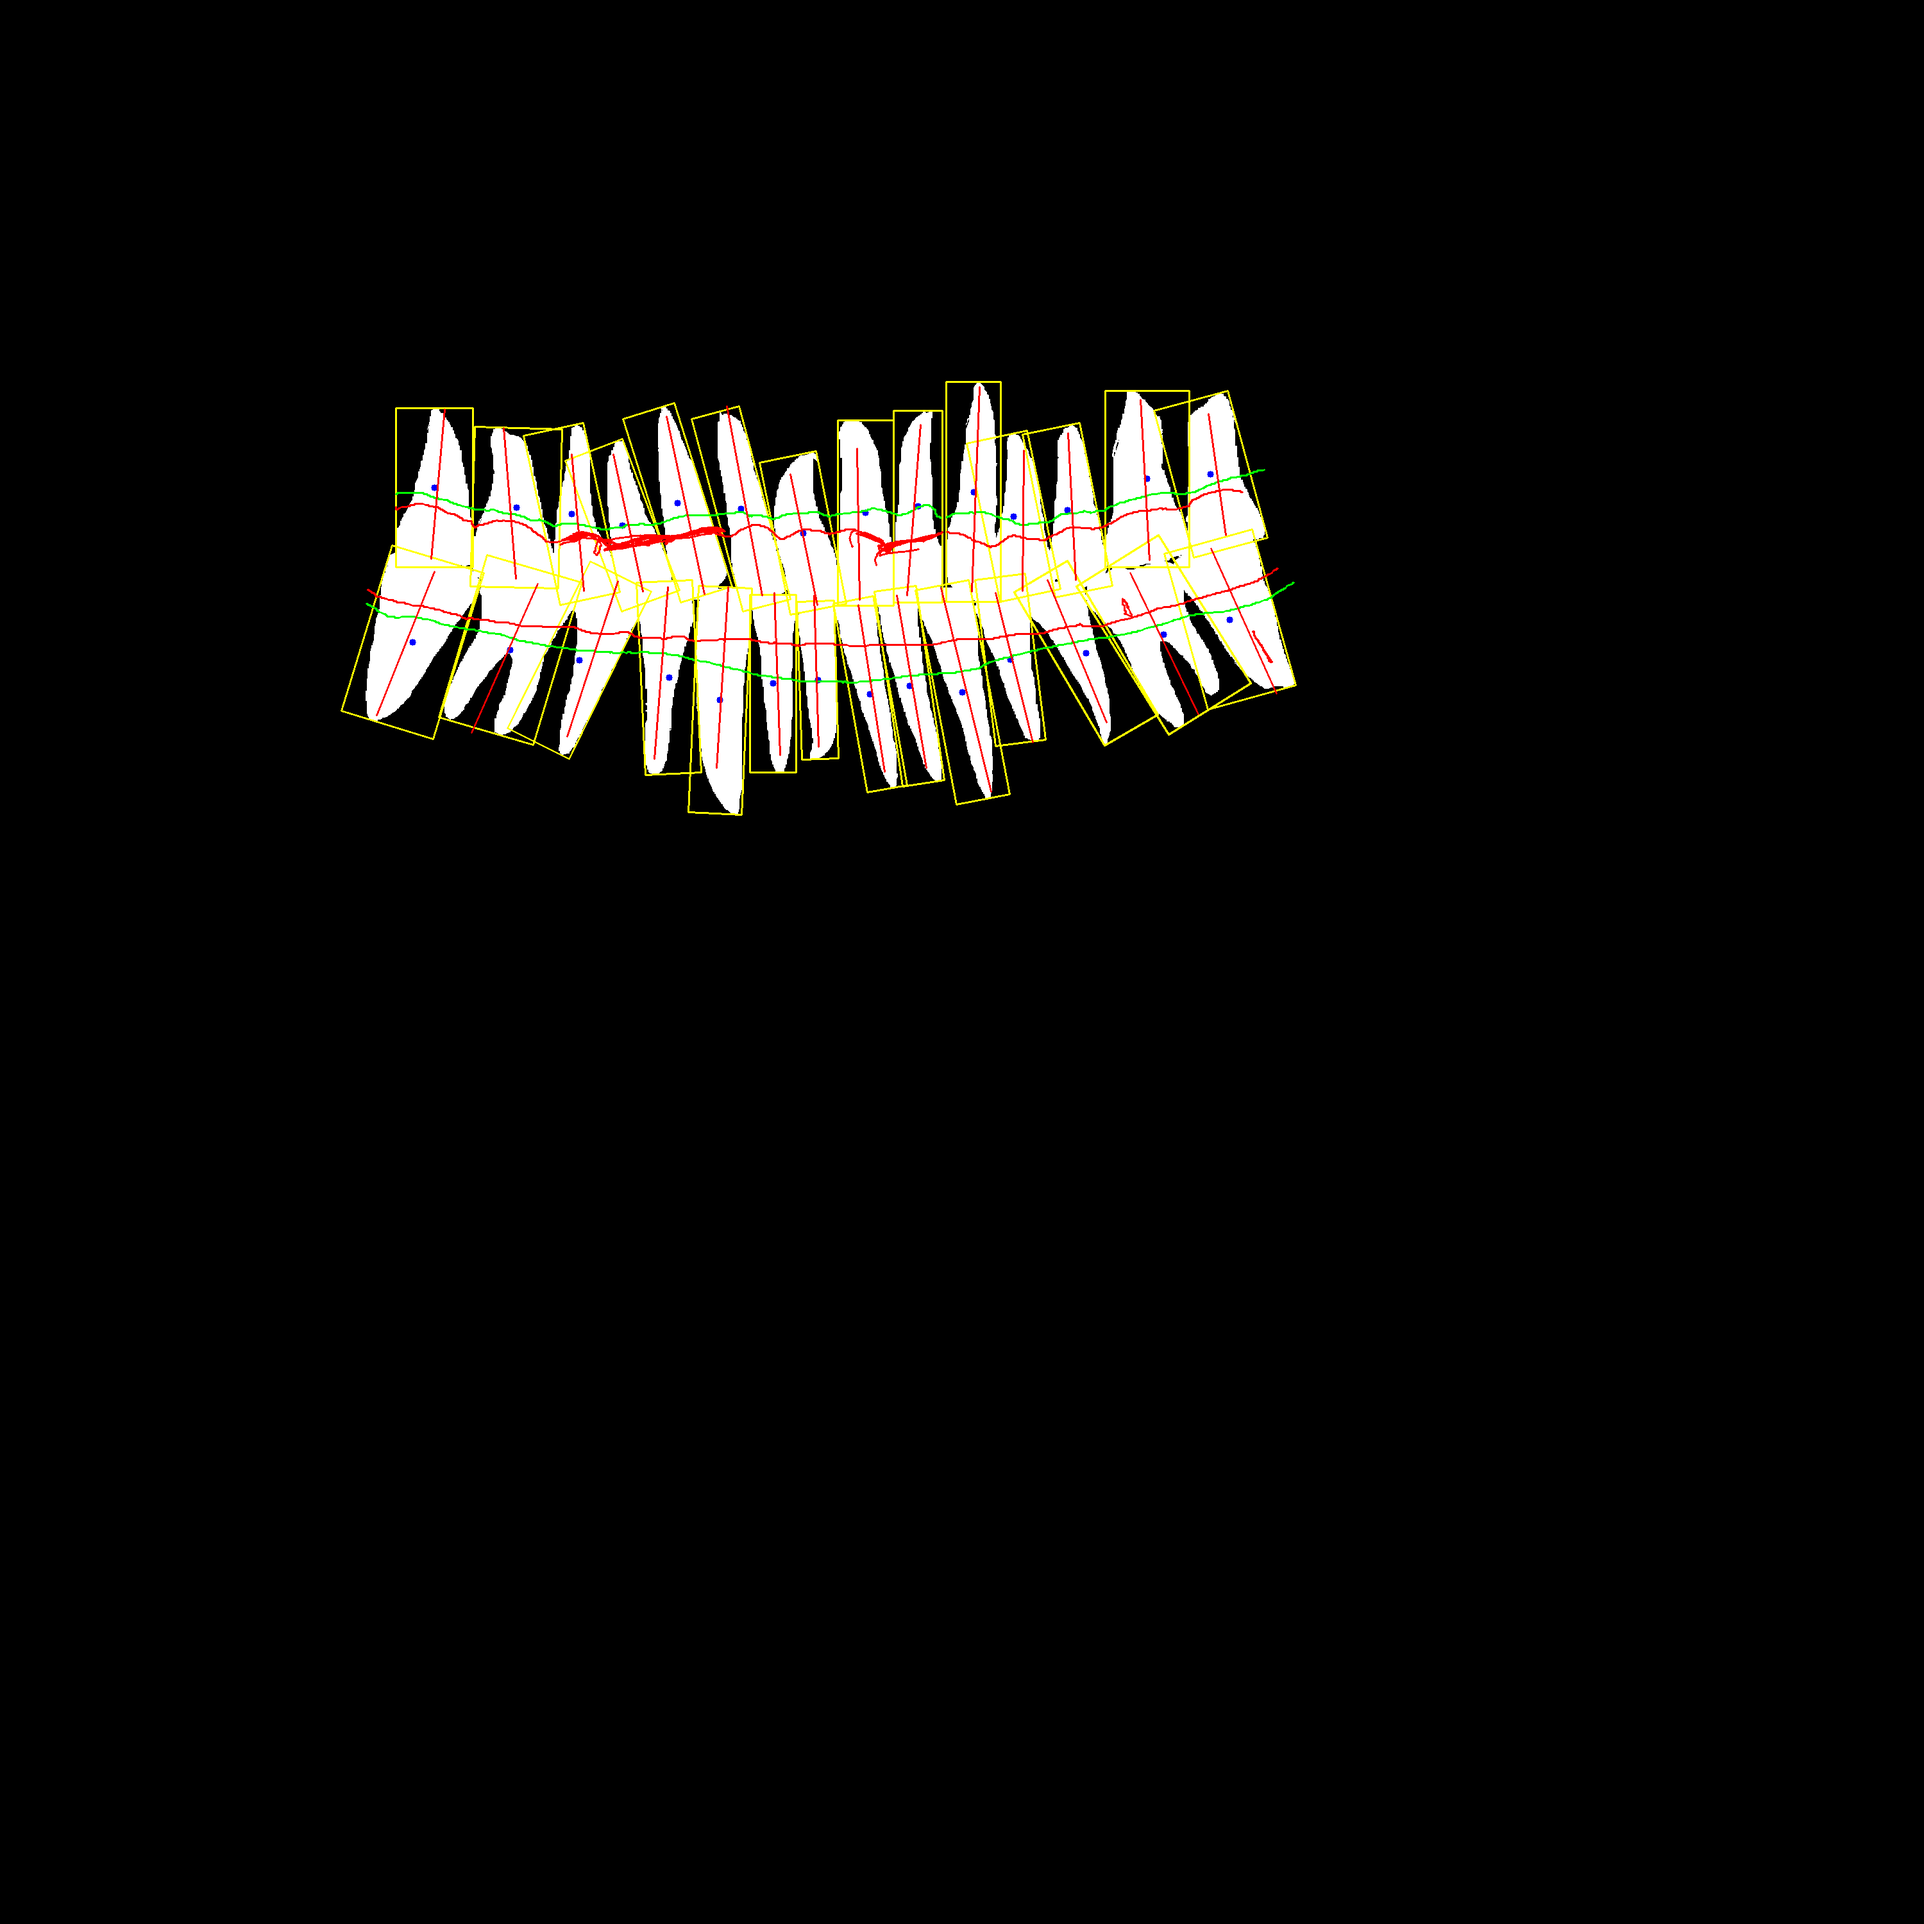
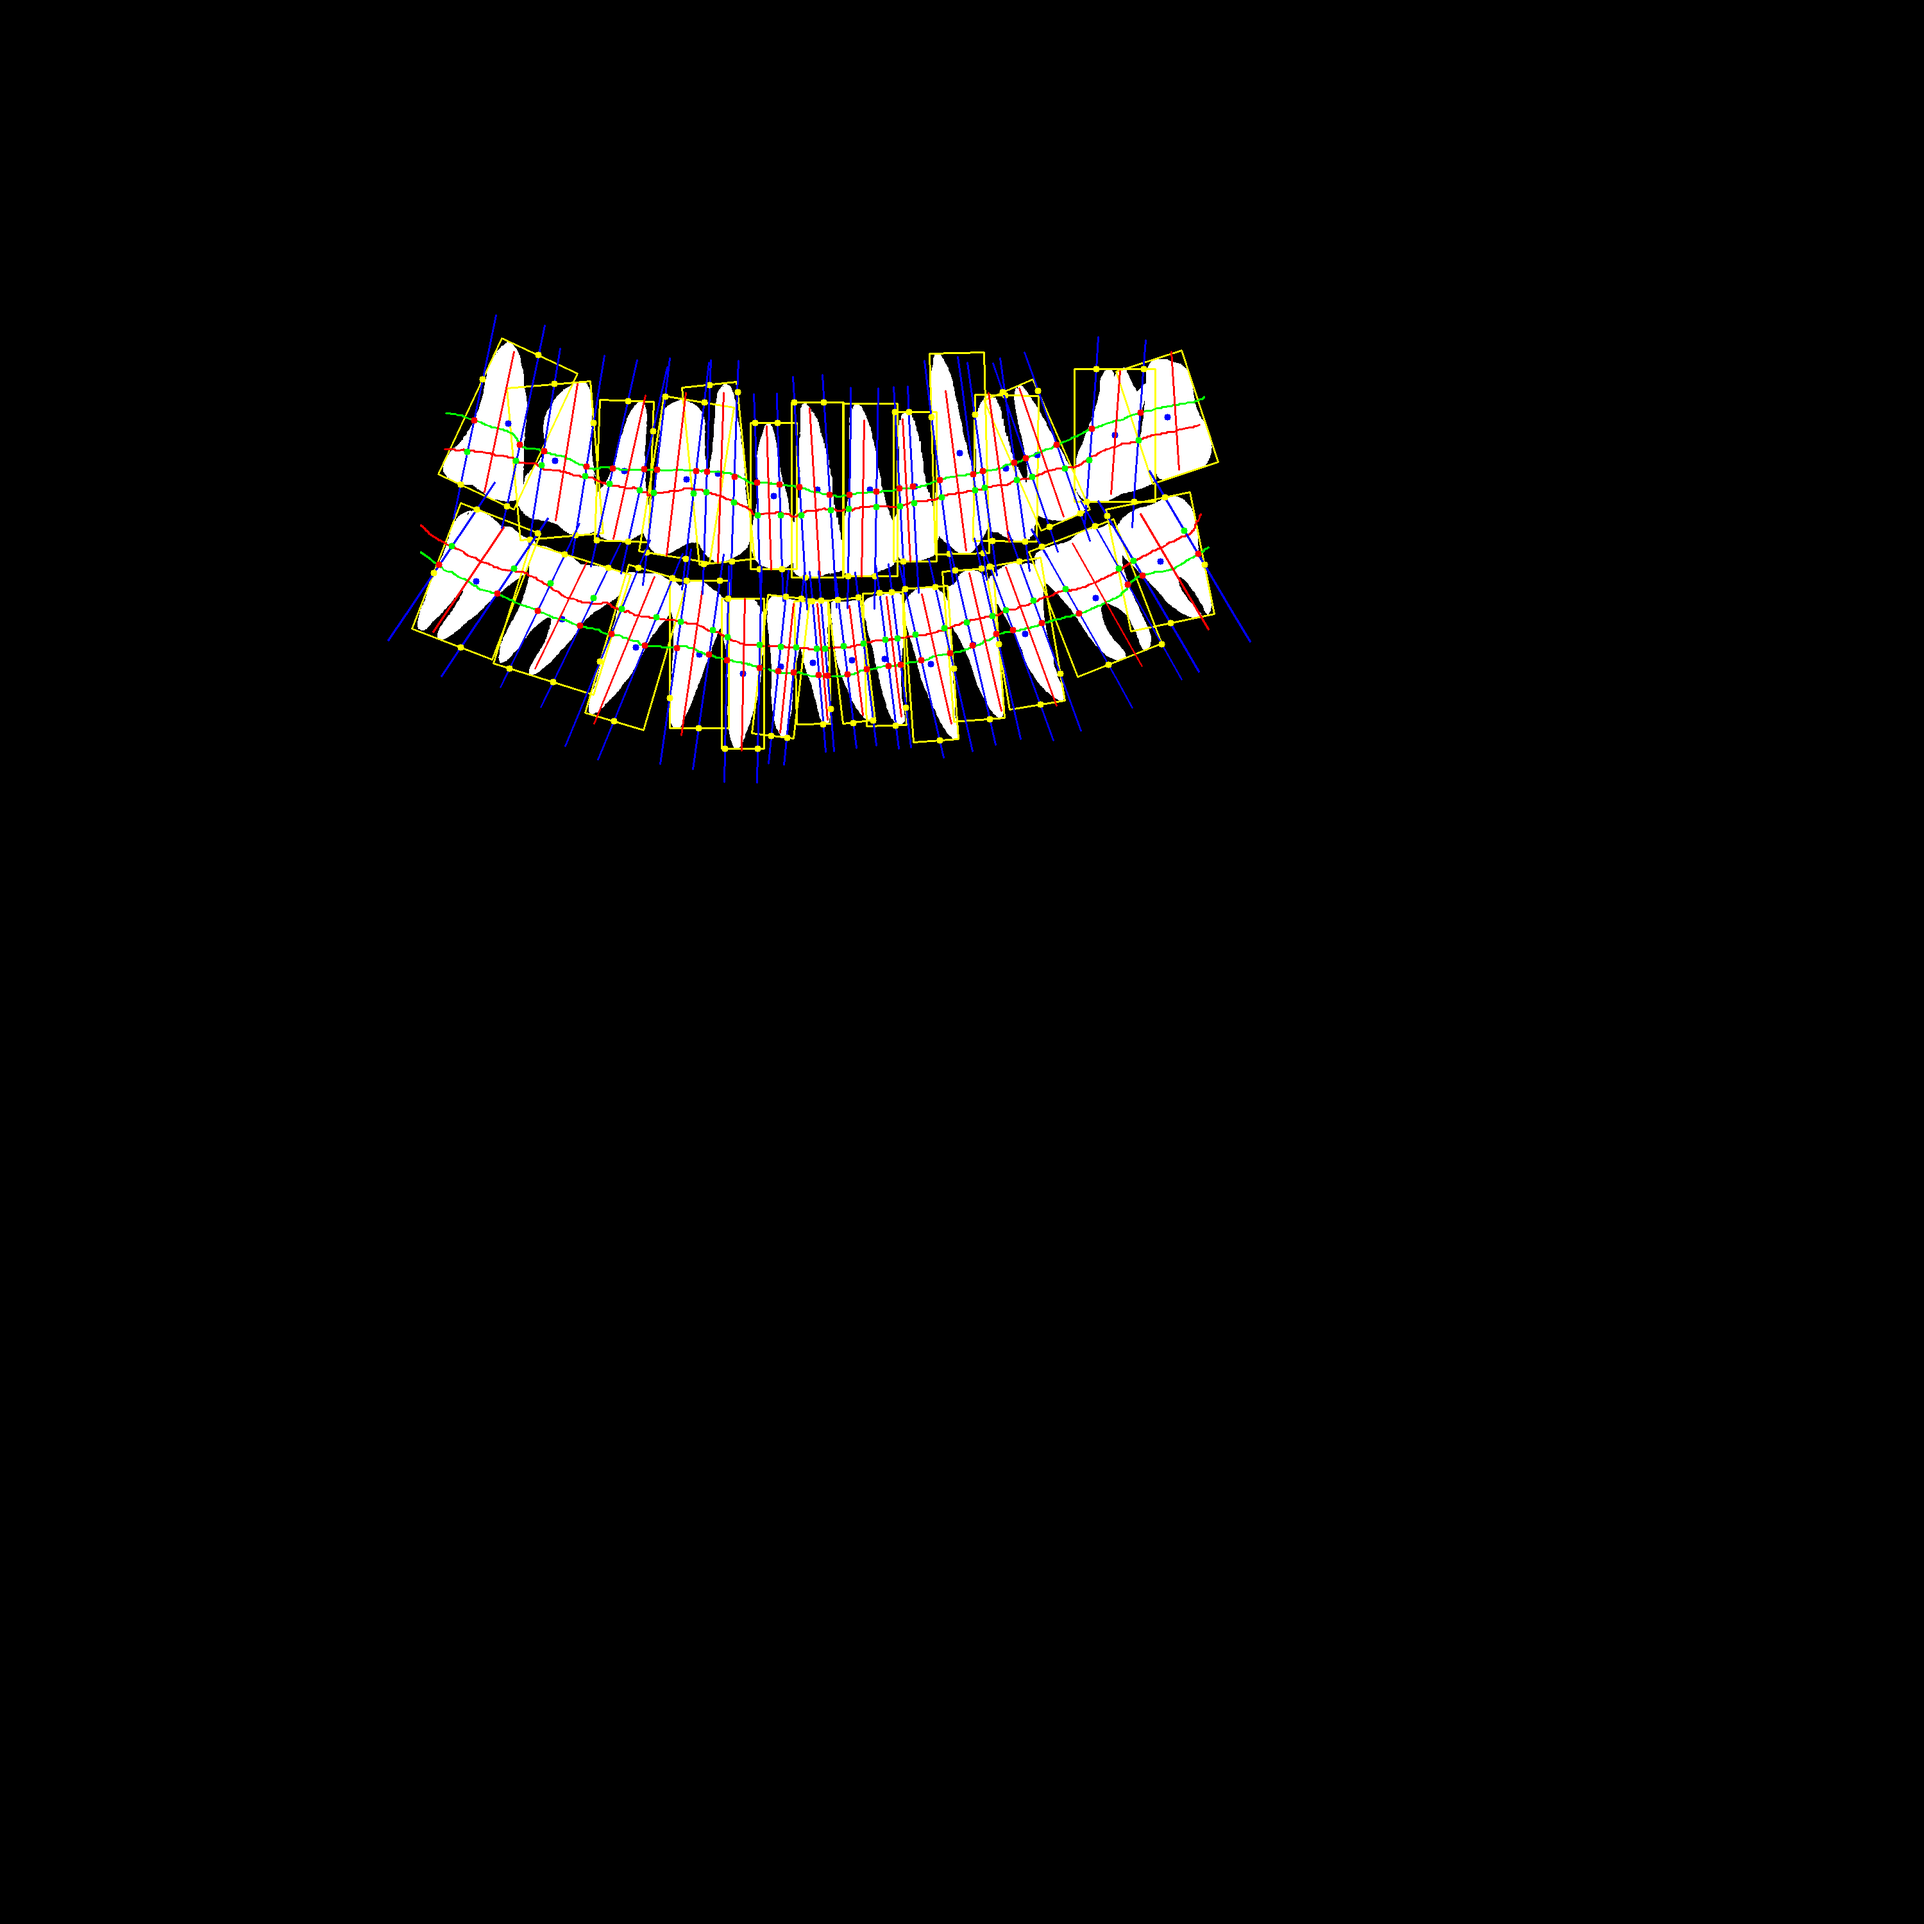
[BE-27]: 박스와 cej, bone 거리값 계산

Changed region(s): [[0.186, 0.155, 0.682, 0.434]]

diff --git a/src/main/java/com/fas/PrtioAI_Insights/service/CejBoneDistancesService.java b/src/main/java/com/fas/PrtioAI_Insights/service/CejBoneDistancesService.java
@@ -11,6 +11,8 @@ import java.io.*;
 import java.nio.file.Files;
 import java.nio.file.StandardCopyOption;
 import java.util.*;
+import static java.lang.Math.pow;
+import static java.lang.Math.sqrt;
 
 @Service
 public class CejBoneDistancesService {
@@ -26,6 +28,8 @@ public class CejBoneDistancesService {
     private List<Scalar> tlaColor;
     private List<Integer> tlaSize;
     private List<List<Point>> bonePoints;
+    // toothDistanceService:- 각 박스에서부터 거리
+    private ToothDistanceService toothDistanceService;
 
     // 교점 저장
     private Map<Integer, Map<String, Point>> intersectionsByTooth;
@@ -71,7 +75,36 @@ public class CejBoneDistancesService {
 
     public CejBoneDistancesService(ObjectMapper objectMapper) {
         this.objectMapper = objectMapper;
+        this.toothDistanceService = new ToothDistanceService(); // 인스턴스 생성
     }
+
+    // 필요한 메서드에서 toothDistanceService를 사용하여 거리 계산 호출
+    public void calculateToothDistances() {
+        toothDistanceService.calculateDistances(intersectionsByTooth, boxIntersections);
+
+        Map<Integer, Map<String, Double>> distances = toothDistanceService.getDistancesByTooth();
+        printFormattedDistances(distances);  // 포맷된 거리 정보 출력
+    }
+
+    public static void printFormattedDistances(Map<Integer, Map<String, Double>> distances) {
+        StringBuilder sb = new StringBuilder();
+        sb.append("Tooth Distances:\n");
+
+        for (Map.Entry<Integer, Map<String, Double>> entry : distances.entrySet()) {
+            Integer toothNum = entry.getKey();
+            Map<String, Double> distanceData = entry.getValue();
+
+            sb.append("Tooth Number: ").append(toothNum).append("\n");
+            for (Map.Entry<String, Double> distanceEntry : distanceData.entrySet()) {
+                sb.append("    ").append(distanceEntry.getKey()).append(": ")
+                        .append(distanceEntry.getValue()).append("\n");
+            }
+            sb.append("\n");  // 각 치아 번호 간 간격 추가
+        }
+
+        System.out.println(sb.toString());
+    }
+
 
     private void initialize() {
         teethNum = new ArrayList<>();
@@ -219,10 +252,16 @@ public class CejBoneDistancesService {
 
         saveMasks();
 
-        //TODO:- 테스트용 (cej, bone 좌표값 출력확인)
-        //printFilteredPoints();
-        // 거리값 출력
-        printDistancesBetweenMinMaxXCoordinates();
+        // 필요 시 거리 계산 수행
+        toothDistanceService.calculateDistances(intersectionsByTooth, boxIntersections);
+
+        // ToothDistanceService 인스턴스를 통해 계산된 거리 데이터 접근
+        Map<Integer, Map<String, Double>> distances = this.toothDistanceService.getDistancesByTooth();
+
+
+        // 보기 좋게 포맷하여 출력
+        printFormattedDistances(distances);
+
 
         return getAnalysisData();
     }
@@ -1221,30 +1260,66 @@ public class CejBoneDistancesService {
             }
         }
     }
-    //TODO:- 테스트용 (추후 삭제)
-    public void printFilteredPoints() {
-        // Print teethCejPoints
-        System.out.println("Filtered CEJ Points (teethCejPoints):");
-        for (Map.Entry<Integer, List<Point>> entry : filteredCejPointsByTooth.entrySet()) {
-            int toothNum = entry.getKey();
-            List<Point> points = entry.getValue();
-            System.out.println("Tooth Number: " + toothNum);
-            for (Point point : points) {
-                System.out.println("    " + point);
+
+
+
+
+
+    public class ToothDistanceService {
+
+        // 각 치아별 4가지 거리 정보를 저장할 전역 맵
+        private Map<Integer, Map<String, Double>> distancesByTooth = new HashMap<>();
+
+        // 상악 치아 범위
+        private final Set<Integer> MAXILLARY_TEETH = new HashSet<>(Arrays.asList(11, 12, 13, 14, 15, 16, 17, 18, 21, 22, 23, 24, 25, 26, 27, 28));
+
+        // 거리 계산 함수
+        public void calculateDistances(Map<Integer, Map<String, Point>> intersectionsByTooth, Map<Integer, Map<String, List<Point>>> boxIntersections) {
+            for (Map.Entry<Integer, Map<String, Point>> entry : intersectionsByTooth.entrySet()) {
+                int toothNum = entry.getKey();
+                Map<String, Point> toothIntersections = entry.getValue();
+                Map<String, List<Point>> toothBoxIntersections = boxIntersections.get(toothNum);
+
+                // 상악과 하악을 구분하여 박스 교점 기준 설정
+                String keyForBoxIntersections = MAXILLARY_TEETH.contains(toothNum) ? "박스 하단 교점" : "박스 상단 교점";
+
+                // 교점 정보가 없으면 건너뜀
+                if (toothBoxIntersections == null || !toothBoxIntersections.containsKey(keyForBoxIntersections)) continue;
+
+                List<Point> boxPoints = toothBoxIntersections.get(keyForBoxIntersections);
+                if (boxPoints.size() < 2) continue; // 좌우 계산을 위해 최소 두 개의 박스 교점이 필요
+
+                // 치아의 왼쪽과 오른쪽 교점 및 박스 교점으로 거리 계산
+                double leftCejDistance = calculatePointDistance(boxPoints.get(0), toothIntersections.get("Last_CEJ_Intersection_Left"));
+                double leftBoneDistance = calculatePointDistance(boxPoints.get(0), toothIntersections.get("Last_Bone_Intersection_Left"));
+                double rightCejDistance = calculatePointDistance(boxPoints.get(1), toothIntersections.get("Last_CEJ_Intersection_Right"));
+                double rightBoneDistance = calculatePointDistance(boxPoints.get(1), toothIntersections.get("Last_Bone_Intersection_Right"));
+
+                // 전역 맵에 거리 값 저장
+                Map<String, Double> distances = new HashMap<>();
+                distances.put("leftCejDistance", leftCejDistance);
+                distances.put("leftBoneDistance", leftBoneDistance);
+                distances.put("rightCejDistance", rightCejDistance);
+                distances.put("rightBoneDistance", rightBoneDistance);
+                distancesByTooth.put(toothNum, distances);
             }
         }
 
-        // Print bonePointsByNum
-        System.out.println("\nFiltered Bone Points (bonePointsByNum):");
-        for (Map.Entry<Integer, List<Point>> entry : filteredBonePointsByTooth.entrySet()) {
-            int toothNum = entry.getKey();
-            List<Point> points = entry.getValue();
-            System.out.println("Tooth Number: " + toothNum);
-            for (Point point : points) {
-                System.out.println("    " + point);
-            }
+        // 두 점 간의 거리 계산 메서드
+        private double calculatePointDistance(Point p1, Point p2) {
+            if (p1 == null || p2 == null) return Double.MAX_VALUE; // 거리 계산 불가한 경우 무한대 리턴
+            return sqrt(pow(p1.x - p2.x, 2) + pow(p1.y - p2.y, 2));
+        }
+
+        // 거리 데이터 조회 메서드 (테스트 및 확인용)
+        public Map<Integer, Map<String, Double>> getDistancesByTooth() {
+            return distancesByTooth;
         }
     }
+
+
+
+
 
 
     public Map<String, Object> getAnalysisData() {
